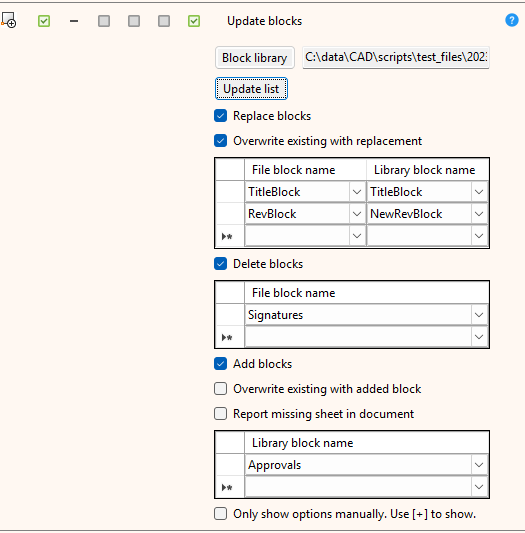
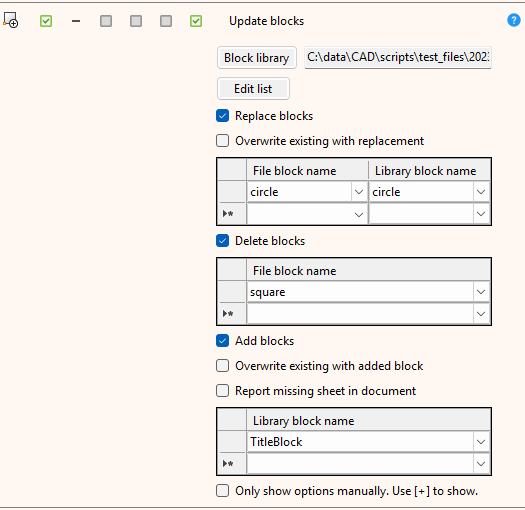
Documentation

diff --git a/HelpTopics.md b/HelpTopics.md
@@ -756,12 +756,14 @@ Adds, replaces and/or deletes blocks in a draft file.
 
 For adding and replacing, a draft file containing the new blocks is required.  In most cases it will simply be your draft template.  Click the `Block Library` button to select it. 
 
-To populate the combo boxes with the blocks in the library, click the `Update list` button. To add a block name that is not in the library, double-click the combo box. You can add a name to a file block list, but not to a library block list. Note, the combo box behavior is a little quirky.  You have to click twice to use it. The first click gives it `focus`, the next opens the drop down. 
+To populate the combo boxes with the block names, click the `Edit list` button. On the dialog, click `Update` to populate the library blocks. The program needs to start Solid Edge to do so, which can take a bit of time. 
+
+If you have files with block names not found in the library, enter them on the `File Blocks` list.  You can delete entries no longer needed. Select the `Row Header` (the gray box left of the text) and press your keyboard's `Delete` key. 
 
 There are a few options.  They are described next.  
 - `Replace Blocks` `Overwrite existing with replacement`: This is confusing; the point of the command is to overwrite blocks, right? There is an ambiguity, however. Say you want to replace `Block1` in the file with `Block2` in the library. It's clear what will happen to `Block1`.  But what if there is already a `Block2` in the file? This option tells the program how to proceed for that situation. 
 - `Add Blocks` `Overwrite existing with added block`: Similar to above, this is for when you're adding `Block1` to the file, but it already has one with that name.  
-- `Add Blocks` `Report missing sheet in document`: The Solid Edge `Add Blocks` command updates the file's library, but does not add it to drawing sheets. But you do want it on drawings, so the program checks each sheet of the library and places an occurrence on the corresponding sheet in the file, at the same location, scale, and rotation as the original.  If the file does not have a corresponding sheet, enable this option to have it reported in the log file.  
+- `Add Blocks` `Report missing sheet in document`: The Solid Edge `Add Blocks` command updates the file's library, but does not add it to drawing sheets. Since you, of course, want it on drawings, the program checks each sheet of the library and places an occurrence on the corresponding sheet in the file, at the same location, scale, and rotation as the original.  If the file does not have a corresponding sheet, enable this option to have it reported in the log file.  
 
 </details>
 

diff --git a/README.md b/README.md
@@ -756,12 +756,14 @@ Adds, replaces and/or deletes blocks in a draft file.
 
 For adding and replacing, a draft file containing the new blocks is required.  In most cases it will simply be your draft template.  Click the `Block Library` button to select it. 
 
-To populate the combo boxes with the blocks in the library, click the `Update list` button. To add a block name that is not in the library, double-click the combo box. You can add a name to a file block list, but not to a library block list. Note, the combo box behavior is a little quirky.  You have to click twice to use it. The first click gives it `focus`, the next opens the drop down. 
+To populate the combo boxes with the block names, click the `Edit list` button. On the dialog, click `Update` to populate the library blocks. The program needs to start Solid Edge to do so, which can take a bit of time. 
+
+If you have files with block names not found in the library, enter them on the `File Blocks` list.  You can delete entries no longer needed. Select the `Row Header` (the gray box left of the text) and press your keyboard's `Delete` key. 
 
 There are a few options.  They are described next.  
 - `Replace Blocks` `Overwrite existing with replacement`: This is confusing; the point of the command is to overwrite blocks, right? There is an ambiguity, however. Say you want to replace `Block1` in the file with `Block2` in the library. It's clear what will happen to `Block1`.  But what if there is already a `Block2` in the file? This option tells the program how to proceed for that situation. 
 - `Add Blocks` `Overwrite existing with added block`: Similar to above, this is for when you're adding `Block1` to the file, but it already has one with that name.  
-- `Add Blocks` `Report missing sheet in document`: The Solid Edge `Add Blocks` command updates the file's library, but does not add it to drawing sheets. But you do want it on drawings, so the program checks each sheet of the library and places an occurrence on the corresponding sheet in the file, at the same location, scale, and rotation as the original.  If the file does not have a corresponding sheet, enable this option to have it reported in the log file.  
+- `Add Blocks` `Report missing sheet in document`: The Solid Edge `Add Blocks` command updates the file's library, but does not add it to drawing sheets. Since you, of course, want it on drawings, the program checks each sheet of the library and places an occurrence on the corresponding sheet in the file, at the same location, scale, and rotation as the original.  If the file does not have a corresponding sheet, enable this option to have it reported in the log file.  
 
 </details>
 
